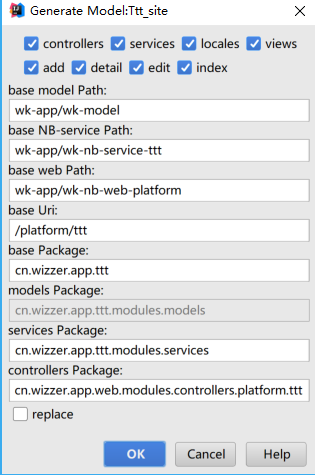
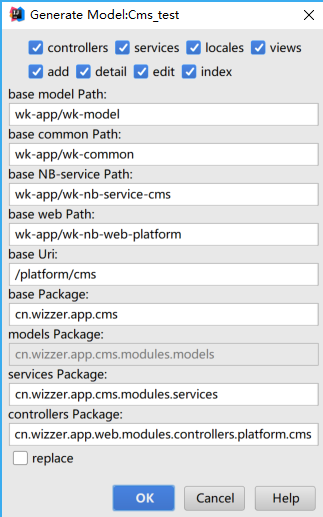
update: 代码生成器可以使用了..

Changed region(s): [[0.0, 0.0, 1.0, 0.9137], [0.3143, 0.9137, 1.0, 1.0], [0.5714, 0.0589, 0.9429, 0.1768]]

diff --git a/wk-code/wk-code-ideaplugin-nb/src/cn/wizzer/app/code/commons/plugin/ui/ConfigDialog.java b/wk-code/wk-code-ideaplugin-nb/src/cn/wizzer/app/code/commons/plugin/ui/ConfigDialog.java
@@ -32,10 +32,12 @@ public class ConfigDialog extends DialogWrapper {
     private JBCheckBox forceCheckBox;
     private JBLabel baseModelPathLabel;
     private JBLabel basePathLabel;
+    private JBLabel baseComPathLabel;
     private JBLabel baseNbPathLabel;
     private JBLabel baseUriLabel;
     private JBLabel basePackageLabel;
     private JBTextField basePathTextField;
+    private JBTextField baseComPathTextField;
     private JBTextField baseNbPathTextField;
     private JBTextField baseModelPathTextField;
     private JBTextField baseUriTextField;
@@ -90,11 +92,13 @@ public class ConfigDialog extends DialogWrapper {
 
         forceCheckBox = new JBCheckBox("replace", false);
         baseModelPathTextField = new JBTextField("wk-app/wk-model");
+        baseComPathTextField = new JBTextField("wk-app/wk-common");
         baseNbPathTextField = new JBTextField("wk-app/wk-nb-service-" + modelUriName);
         basePathTextField = new JBTextField("wk-app/wk-nb-web-platform");
         baseUriTextField = new JBTextField(baseUri);
         basePackageTextField = new JBTextField(basePackage);
         baseModelPathLabel = new JBLabel("base model Path:");
+        baseComPathLabel = new JBLabel("base common Path:");
         baseNbPathLabel = new JBLabel("base NB-service Path:");
         basePathLabel = new JBLabel("base web Path:");
         baseUriLabel = new JBLabel("base Uri:");
@@ -147,6 +151,8 @@ public class ConfigDialog extends DialogWrapper {
         final VerticalBox root = new VerticalBox();
         root.add(baseModelPathLabel);
         root.add(baseModelPathTextField);
+        root.add(baseComPathLabel);
+        root.add(baseComPathTextField);
         root.add(baseNbPathLabel);
         root.add(baseNbPathTextField);
         root.add(basePathLabel);
@@ -197,6 +203,7 @@ public class ConfigDialog extends DialogWrapper {
         config.setBasePackage(basePackage);
         config.setBaseModelPath(baseModelPathTextField.getText().trim());
         config.setBasePath(basePathTextField.getText().trim());
+        config.setBaseComPath(baseComPathTextField.getText().trim());
         config.setBaseNbPath(baseNbPathTextField.getText().trim());
         config.setBaseUri(baseUriTextField.getText().trim());
         config.setConroller(controllerCheckBox.isSelected());

diff --git a/wk-code/wk-code-generator-nb/src/main/java/cn/wizzer/app/code/commons/builder/Generator.java b/wk-code/wk-code-generator-nb/src/main/java/cn/wizzer/app/code/commons/builder/Generator.java
@@ -76,6 +76,7 @@ public class Generator {
         add.invoke(classLoader, programRootDir.toURI().toURL());
         String basePath = "";
         String baseNbPath = "";
+        String baseComPath = "";
         String projectPath = "";
         String configPath = "code/code.json";
 
@@ -115,7 +116,8 @@ public class Generator {
                 "for generator pages,default:all pages,eg: -v index_detail will generate index.html and detail.html");
         options.addOption("j", "project-path", true, "project directory, default is empty");
         options.addOption("b", "base-path", true, "base directory, default is empty");
-        options.addOption("n", "basenb-path", true, "base nb directory, default is empty");
+        options.addOption("y", "common-path", true, "base common directory, default is empty");
+        options.addOption("n", "basenb-path", true, "base nutzboot directory, default is empty");
         options.addOption("o", "output", true, "output directory, default is " + outputDir);
         options.addOption("u", "base-uri", true, "base uri prefix, default is /");
         options.addOption("f", "force", false, "force generate file even if file exists");
@@ -162,6 +164,9 @@ public class Generator {
             }
             if (commandLine.hasOption("n")) {
                 baseNbPath = commandLine.getOptionValue("n");
+            }
+            if (commandLine.hasOption("y")) {
+                baseComPath = commandLine.getOptionValue("y");
             }
             if (commandLine.hasOption("v")) {
                 String pagestr = commandLine.getOptionValue("v");
@@ -233,7 +238,7 @@ public class Generator {
                     String packageName = basePackageName + "." + typeMap.get(type);
                     String path = projectPath + "/" + outputDir + "/src/main/java";
                     if ("service".equals(type)) {
-                        path = projectPath + "/wk-app/wk-common/src/main/java";
+                        path = projectPath + "/" + baseComPath + "/src/main/java";
                         packageName = servicePackageName;
                     }
                     if ("controller".equals(type)) {

diff --git a/wk-code/wk-code-ideaplugin-nb/src/cn/wizzer/app/code/commons/plugin/GeneratorAction.java b/wk-code/wk-code-ideaplugin-nb/src/cn/wizzer/app/code/commons/plugin/GeneratorAction.java
@@ -61,6 +61,7 @@ public class GeneratorAction extends AnAction {
         StringBuilder programArgs = new StringBuilder();
         programArgs.append("-i ").append(entityClassName).append(" -u ").append(generateConfig.getBaseUri())
                 .append(" -b ").append(generateConfig.getBaseModelPath())
+                .append(" -y ").append(generateConfig.getBaseComPath())
                 .append(" -n ").append(generateConfig.getBaseNbPath())
                 .append(" -j ").append(project.getBasePath())
                 .append(" -o ").append(generateConfig.getBasePath())
@@ -104,7 +105,12 @@ public class GeneratorAction extends AnAction {
         System.out.println("generateConfig.getBasePath()::" + generateConfig.getBasePath());
         System.out.println("appConfig.WORKING_DIRECTORY::" + appConfig.WORKING_DIRECTORY);
         Module[] modules = ModuleManager.getInstance(project).getModules();
-        appConfig.setModule(modules[0]);
+        for(Module module:modules){
+            if(module.getName().contains("model")){
+                appConfig.setModule(module);
+                break;
+            }
+        }
         RunnerAndConfigurationSettings configuration = runManager.createConfiguration(appConfig, appConfig.getFactory());
         runManager.addConfiguration(configuration, true);
         Executor executor = ExecutorRegistry.getInstance().getExecutorById(com.intellij.openapi.wm.ToolWindowId.DEBUG);

diff --git a/wk-code/wk-code-ideaplugin-nb/src/cn/wizzer/app/code/commons/plugin/utils/GenerateConfig.java b/wk-code/wk-code-ideaplugin-nb/src/cn/wizzer/app/code/commons/plugin/utils/GenerateConfig.java
@@ -12,6 +12,7 @@ public class GenerateConfig {
     private boolean view;
     private boolean locale;
     private String baseModelPath;
+    private String baseComPath;
     private String baseNbPath;
     private String basePath;
     private String baseUri;
@@ -62,6 +63,14 @@ public class GenerateConfig {
 
     public void setBaseModelPath(String baseModelPath) {
         this.baseModelPath = baseModelPath;
+    }
+
+    public String getBaseComPath() {
+        return baseComPath;
+    }
+
+    public void setBaseComPath(String baseComPath) {
+        this.baseComPath = baseComPath;
     }
 
     public String getBaseNbPath() {

diff --git a/wk-wiki/02.Service/02.02.Generator.md b/wk-wiki/02.Service/02.02.Generator.md
@@ -1,0 +1,8 @@
+## 代码生成器
+
+* IDEA Settings --> Plugins --> Install plugin from disk --> wk-code-ideaplugin-nb.jar [wk-code里面找]
+* wk-model 创建model类,必须有@Table,若字段需输出到页面则需加 @Comment 字段备注(注意命名规范和大小写)
+* 编译 model类,使其编译至 target/classes 目录下(目的是让代码生成器可读取到class文件)
+* 在实体类里鼠标右击,或者IDEA Code --> Generate --> wk-nb mvc
+
+![IDEA插件截图](../images/07.png)

diff --git a/wk-wiki/README.md b/wk-wiki/README.md
@@ -10,6 +10,7 @@
   - [01.04 **打包部署**](01.QuickStart/01.04.Deploy.md)
 - [02. **服务端开发**](02.Service)
   - [02.01 **服务端开发**](02.Service/02.01.Develop.md)
+  - [02.02 **代码生成器**](02.Service/02.02.Generator.md)
 - [03. **Web端开发**](03.Run)
   - [03.01. **权限体系**](03.Run/03.01.01.Desgin.md)
     - [03.01.01 **表设计**](03.Run/03.01.01.Desgin.md)
